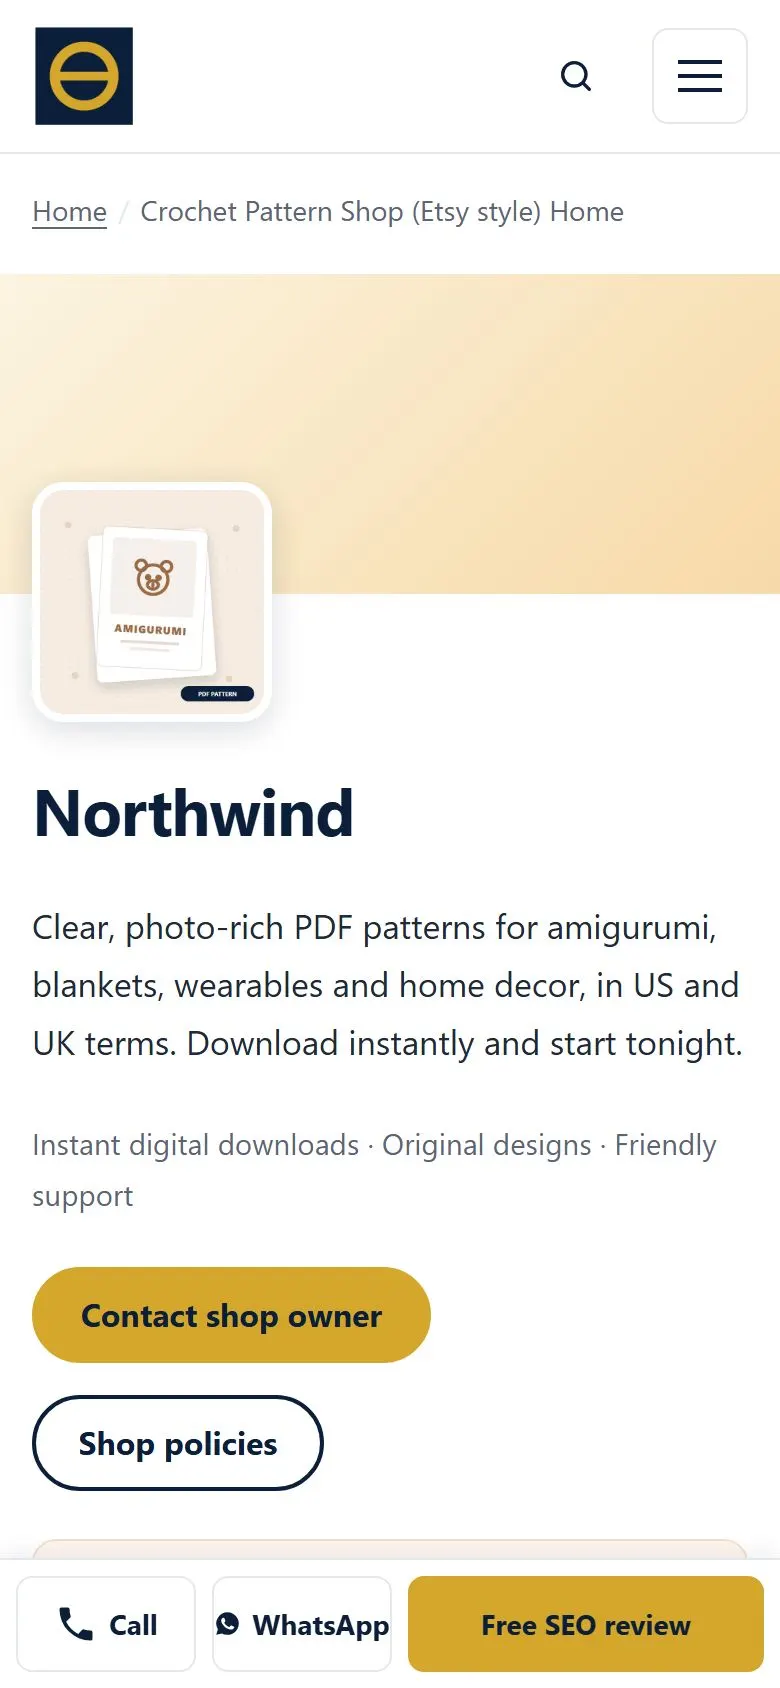
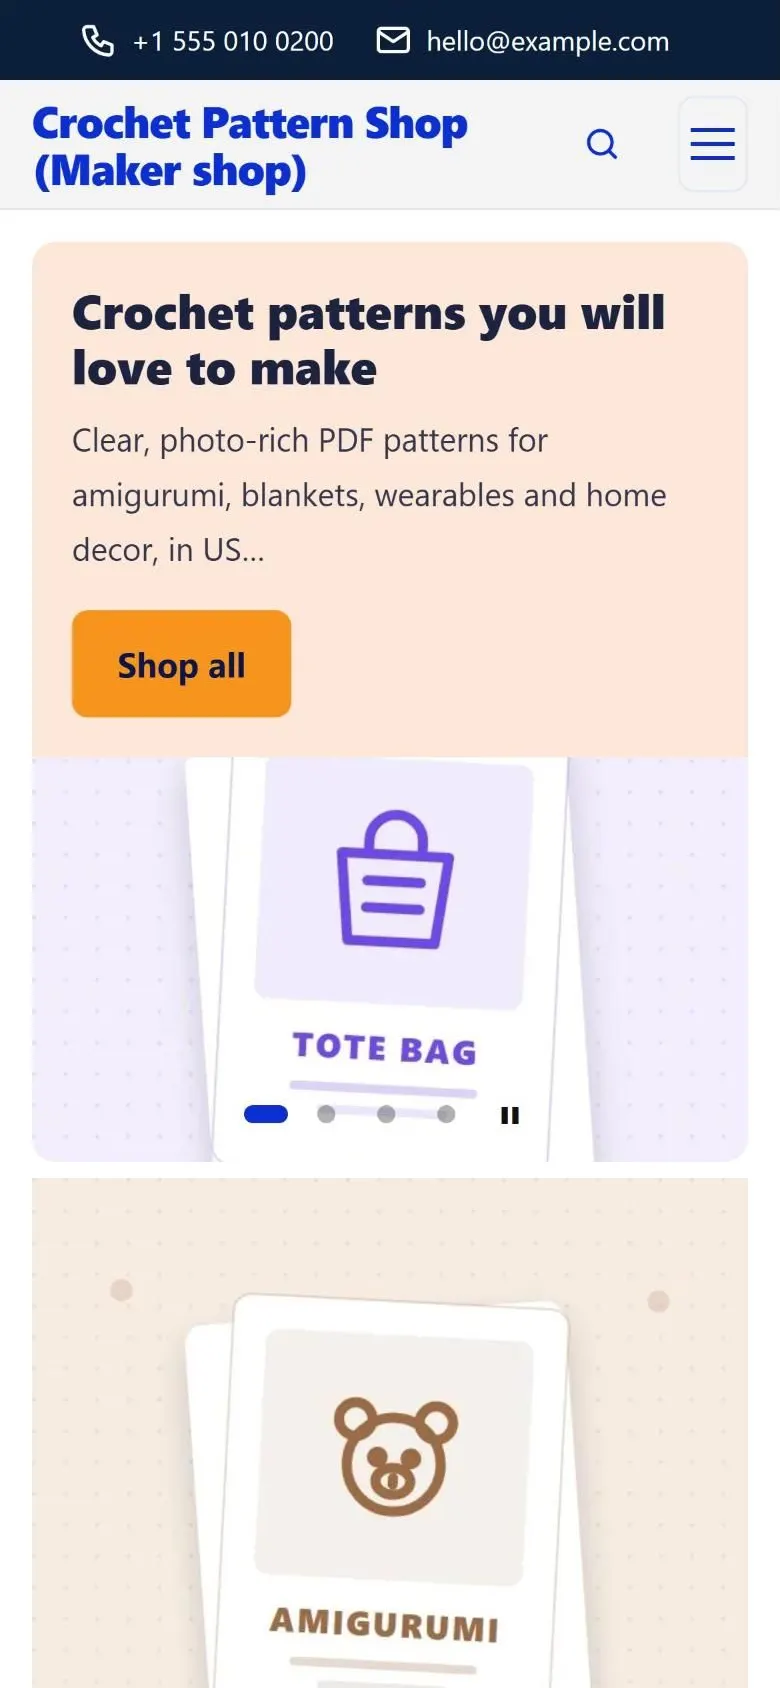
Header and slider polish from shop previews (theme 1.3.23, Blocks 1.3.16, Shops 1.1.1)
Theme: body also clips sideways overflow (page could still be nudged
8 px); header button keeps its width and a long menu wraps to a second
line instead of cutting the button ("Shop now") or running under the
site name.
Blocks: Banner Slider text keeps clear of the arrows; arrows hide on
phones (swipe and dots).
Shops: new Maker shop previews (desktop 1200x900, phone 780x1688) with
the banner slider.

diff --git a/semrs-site/theme/semrs/style.css b/semrs-site/theme/semrs/style.css
@@ -4,7 +4,7 @@ Theme URI:         https://semrs.com/
 Author:            SEMRS
 Author URI:        https://semrs.com/
 Description:       Lightweight, SEO-first theme for businesses, agencies and blogs. Drag-and-drop header and footer builder with top bar, sticky and transparent header, header search and a mobile menu panel. Seven section patterns, sidebar layouts, blog grid or list, reading progress bar, author box, related posts and per-page header, footer and sidebar options. No jQuery: one stylesheet and one small script.
-Version:           1.3.21
+Version:           1.3.23
 Requires at least: 6.5
 Tested up to:      7.1
 Requires PHP:      7.4
@@ -57,6 +57,7 @@ Tags:              blog, news, portfolio, one-column, two-columns, right-sidebar
 *, *::before, *::after { box-sizing: border-box; }
 html { -webkit-text-size-adjust: 100%; scroll-padding-top: calc(var(--sp-header-h) + 16px); overflow-x: clip; }
 body {
+	overflow-x: clip; /* With html: full-width (100vw) blocks never make the page scroll sideways. */
 	margin: 0;
 	font-family: var(--sp-font);
 	font-size: var(--sp-font-size);
@@ -169,7 +170,8 @@ th { background: var(--sp-surface); }
 	.main-navigation > div > ul > li > a, .main-navigation > ul > li > a { padding: .5rem .3rem; font-size: .8rem; }
 }
 .menu-item-description { display: block; font-size: .8rem; font-weight: 400; color: var(--sp-muted); }
-.header-cta { white-space: nowrap; }
+.header-cta { white-space: nowrap; flex-shrink: 0; } /* The button keeps its full width; a long menu wraps or shrinks instead. */
+@media (min-width: 922px) { .sp-hb-main .sp-hb-zone { min-width: 0; } .sp-hb-main .main-navigation { min-width: 0; flex: 0 1 auto; } .sp-hb-main .main-navigation > div > ul, .sp-hb-main .main-navigation > ul { flex-wrap: wrap; justify-content: flex-end; row-gap: 0; } } /* A long menu wraps to a second line instead of running under the site name. */
 
 /* Navigation (mobile + tablet) */
 @media (max-width: 921px) {

diff --git a/semrs-site/plugins/semrs-blocks/includes/blocks-banners.php b/semrs-site/plugins/semrs-blocks/includes/blocks-banners.php
@@ -111,6 +111,8 @@ function semrs_blocks_banner_css() {
 		. '.semrs-banner__h{margin:0;font-size:clamp(1.5rem,3.4vw,2.6rem);font-weight:800;line-height:1.15;color:inherit}.semrs-banner__t{margin:0;font-size:clamp(1rem,1.6vw,1.2rem);opacity:.9}.semrs-banner__btn{align-self:flex-start;margin-top:.5rem}'
 		. '.semrs-banner__img{width:100%;height:100%;min-height:0;object-fit:cover;display:block}'
 		. '.semrs-banners--cover .semrs-banner__slide{grid-template-columns:1fr;grid-template-rows:1fr}.semrs-banners--cover .semrs-banner__img{position:absolute;inset:0}.semrs-banners--cover .semrs-banner__text{background:linear-gradient(90deg,rgba(0,0,0,.55),rgba(0,0,0,0) 75%);color:#fff;height:100%}'
+		. '@media(min-width:782px){.semrs-banners--arrows .semrs-banner__text{padding-left:max(clamp(1.25rem,4vw,3rem),72px)}.semrs-banners--arrows.semrs-banners--cover .semrs-banner__text,.semrs-banners--arrows.semrs-banners--text .semrs-banner__text{padding-right:max(clamp(1.25rem,4vw,3rem),72px)}}'
+		. '@media(max-width:781px){.semrs-banners__nav{display:none}}'
 		. '.semrs-banners__nav{position:absolute;top:50%;transform:translateY(-50%);width:44px;height:44px;border-radius:50%;border:0;background:rgba(255,255,255,.92);color:#111;font-size:1.6rem;line-height:1;cursor:pointer;z-index:2;box-shadow:0 2px 8px rgba(0,0,0,.15)}.semrs-banners__prev{left:12px}.semrs-banners__next{right:12px}'
 		. '.semrs-banners__bar{position:absolute;left:0;right:0;bottom:10px;display:flex;justify-content:center;align-items:center;gap:6px;z-index:2}'
 		. '.semrs-banners__dot{width:24px;height:24px;padding:0;border:0;background:none;cursor:pointer;display:grid;place-items:center}.semrs-banners__dot::before{content:"";width:9px;height:9px;border-radius:50%;background:rgba(0,0,0,.3)}.semrs-banners__dot[aria-current="true"]::before{background:var(--b-primary);width:22px;border-radius:5px}'
@@ -141,7 +143,7 @@ function semrs_blocks_render_banners( $a ) {
 		$items .= str_replace( '<div class="semrs-banner__slide"', '<div class="semrs-banner__slide" role="group" aria-roledescription="slide" aria-label="' . esc_attr( sprintf( __( '%1$d of %2$d', 'semrs-blocks' ), $n + 1, count( $slides ) ) ) . '"', $html );
 	}
 	return semrs_blocks_banner_css() . sprintf(
-		'<div class="semrs-banners semrs-banners--%1$s" role="region" aria-roledescription="carousel" aria-label="%2$s" data-autoplay="%3$s" data-interval="%4$d"%5$s><div class="semrs-banners__track" tabindex="0">%6$s</div>%7$s%8$s</div>',
+		'<div class="semrs-banners semrs-banners--%1$s%9$s" role="region" aria-roledescription="carousel" aria-label="%2$s" data-autoplay="%3$s" data-interval="%4$d"%5$s><div class="semrs-banners__track" tabindex="0">%6$s</div>%7$s%8$s</div>',
 		esc_attr( $layout ),
 		esc_attr__( 'Promotions', 'semrs-blocks' ),
 		$many && ! empty( $a['autoplay'] ) ? '1' : '0',
@@ -155,6 +157,7 @@ function semrs_blocks_render_banners( $a ) {
 		),
 		$items,
 		$many && ! empty( $a['arrows'] ) ? '<button type="button" class="semrs-banners__nav semrs-banners__prev" aria-label="' . esc_attr__( 'Previous slide', 'semrs-blocks' ) . '">‹</button><button type="button" class="semrs-banners__nav semrs-banners__next" aria-label="' . esc_attr__( 'Next slide', 'semrs-blocks' ) . '">›</button>' : '',
-		$many && ( ! empty( $a['dots'] ) || ! empty( $a['autoplay'] ) ) ? '<div class="semrs-banners__bar"' . ( empty( $a['dots'] ) ? ' data-nodots' : '' ) . '></div>' : ''
+		$many && ( ! empty( $a['dots'] ) || ! empty( $a['autoplay'] ) ) ? '<div class="semrs-banners__bar"' . ( empty( $a['dots'] ) ? ' data-nodots' : '' ) . '></div>' : '',
+		$many && ! empty( $a['arrows'] ) ? ' semrs-banners--arrows' : '' // Text keeps clear of the arrows.
 	);
 }

diff --git a/semrs-site/plugins/semrs-shops/semrs-shops.php b/semrs-site/plugins/semrs-shops/semrs-shops.php
@@ -3,7 +3,7 @@
  * Plugin Name:       SEMRS Shops
  * Plugin URI:        https://semrs.com/
  * Description:       Ready-made online shops for SEMRS Blocks: a Digital Downloads Shop (Christmas SVGs, printables, gift tags, cards, planners, workbooks, coloring pages, shirt, hat, cup, wall and car decal designs, pet and animal designs, custom family and pet portraits, personalised prints, Canva and Notion templates) and a Crochet Pattern Shop (amigurumi animals and birds, pet accessories, blankets, wearables, home decor, seasonal, bags and car accessories, with a crochet help page). One-click starter sites and editor patterns with colour, size, format and licence options, personalisation and bundles.
- * Version:           1.1.0
+ * Version:           1.1.1
  * Requires at least: 6.5
  * Requires PHP:      7.4
  * Requires Plugins:  semrs-blocks
@@ -20,7 +20,7 @@ defined( 'ABSPATH' ) || exit;
 // WP Consent API: stores only functional data (preferences, saved inputs) and loads no trackers itself.
 add_filter( 'wp_consent_api_registered_' . plugin_basename( __FILE__ ), '__return_true' );
 
-define( 'SEMRS_SHOPS_VERSION', '1.1.0' );
+define( 'SEMRS_SHOPS_VERSION', '1.1.1' );
 define( 'SEMRS_SHOPS_DIR', plugin_dir_path( __FILE__ ) );
 define( 'SEMRS_SHOPS_URL', plugin_dir_url( __FILE__ ) );
 

diff --git a/semrs-site/plugins/semrs-blocks/semrs-blocks.php b/semrs-site/plugins/semrs-blocks/semrs-blocks.php
@@ -3,7 +3,7 @@
  * Plugin Name:       SEMRS Blocks
  * Plugin URI:        https://semrs.com/
  * Description:       Free blocks for any theme (SEMRS, Astra, GeneratePress, Kadence…): SVG icons, icon lists, fancy headings, post grids and lists, countdown timer, pricing and service cards, contact form with country picker, and a free-media sites directory. SEMRS Pro adds sliders, carousels, 3D models, counters, scroll animations and more.
- * Version:           1.3.15
+ * Version:           1.3.16
  * Requires at least: 6.5
  * Requires PHP:      7.4
  * Update URI:        https://semrs.com/updates/semrs-blocks
@@ -19,7 +19,7 @@ defined( 'ABSPATH' ) || exit;
 // WP Consent API: stores only functional data (preferences, saved inputs) and loads no trackers itself.
 add_filter( 'wp_consent_api_registered_' . plugin_basename( __FILE__ ), '__return_true' );
 
-define( 'SEMRS_BLOCKS_VERSION', '1.3.15' );
+define( 'SEMRS_BLOCKS_VERSION', '1.3.16' );
 define( 'SEMRS_BLOCKS_DIR', plugin_dir_path( __FILE__ ) );
 define( 'SEMRS_BLOCKS_URL', plugin_dir_url( __FILE__ ) );
 

diff --git a/semrs-site/theme/semrs/functions.php b/semrs-site/theme/semrs/functions.php
@@ -14,7 +14,7 @@
 
 defined( 'ABSPATH' ) || exit;
 
-define( 'SEMRS_THEME_VERSION', '1.3.21' );
+define( 'SEMRS_THEME_VERSION', '1.3.23' );
 define( 'SEMRS_THEME_DIR', get_template_directory() );
 define( 'SEMRS_THEME_URI', get_template_directory_uri() );
 
